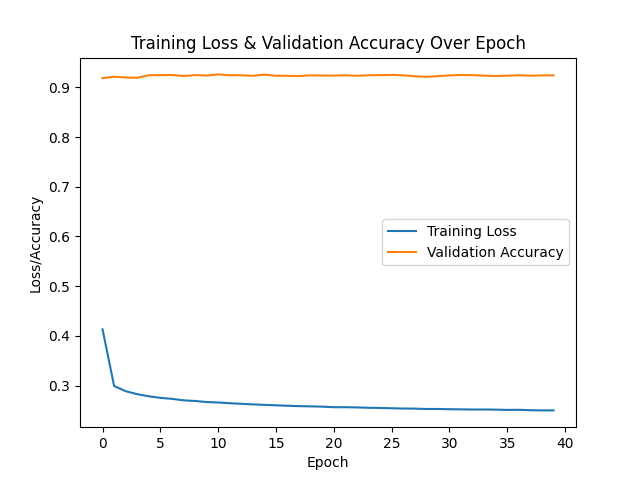
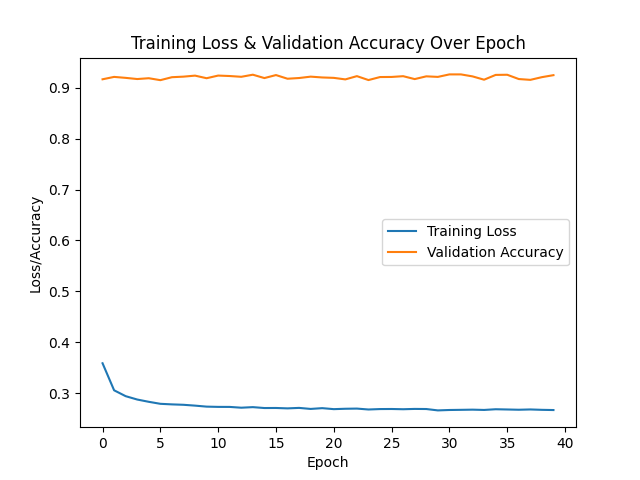
Keras: ex1 1) 2) 3) corrected

diff --git a/lab4/lab4_1_keras.py b/lab4/lab4_1_keras.py
@@ -17,7 +17,7 @@ NUM_CLASSES = 10
 K = 3
 STRIDE = 1
 PADDING = ['valid', 'same']
-NB_FILTERS = 1
+NB_FILTERS = 64
 
 
 if __name__ == '__main__':
@@ -32,9 +32,6 @@ if __name__ == '__main__':
     y_train = keras.utils.to_categorical(y_train, NUM_CLASSES)
     y_test = keras.utils.to_categorical(y_test, NUM_CLASSES)
 
-    # Array of training time over model version.
-    # durations = []
-
     # Define the model.
     model = Sequential()
     model.add(Conv2D(NB_FILTERS, (K, K), STRIDE, PADDING[0], input_shape=x_train.shape[1:]))
@@ -45,7 +42,7 @@ if __name__ == '__main__':
     hist = model.fit(x_train, y_train, batch_size=32, epochs=EPOCHS, validation_data=(x_test, y_test))  # type: ignore
     training_time = time.time() - start_time
     loss, accuracy = model.evaluate(x_test, y_test)
-    # durations += [training_time]
+
 
     # Display the summary.
     print(f"SUMMARY:\n    - Loss: {loss:.4f}\n    - Accuracy: {accuracy:.4f}\n    - Training Time: {training_time:.2f}s")

diff --git a/lab4/README.md b/lab4/README.md
@@ -4,11 +4,13 @@
 
 ### 1.2. First CNN
 
-#### Hyperparameters
+#### Hyperparameters & Results
 
-| Batch Size |  Filters |  Kernel Size  | Stride | Padding |   Loss  | Accuracy |  Time   |
-| :--------: | :------: | :-----------: | :----: | :-----: | :-----: | :------: | :-----: |
-|     32     |    64    |    (3, 3)     |   1    | 'valid' |  0.2746 |  92.41%  | 563.05s |
+| Batch Size |  Filters |  Kernel Size  | Stride | Padding |   Loss  | Accuracy |   Time   |
+| :--------: | :------: | :-----------: | :----: | :-----: | :-----: | :------: | :------: |
+|     32     |    64    |    (3, 3)     |   1    | 'valid' |  0.3152 |  92.43%  | 1411.18s |
+
+<!-- temps abérant, à voir sur ton ordi -->
 
 <br>
 
@@ -33,13 +35,13 @@
 
 Here are the configuration and results of the best model we obtained on lab3.3.
 
-|    Model    | Accuracy |  Time   |
-| :---------: | :------: | :-----: |
-| best lab3.3 |  97.82%  | 561.08s |
-| :---------: | :------: | :-----: |
-|  first CNN  |  92.41%% | 563.05s |
+|    Model    | Accuracy |   Time   |
+| :---------: | :------: | :------: |
+| best lab3.3 |  97.82%  |  561.08s |
+|  first CNN  |  92.43%  | 1411.18s |
 
-Both models took about the same amount of time, but the lab3.3 model provides a 5% higher accuracy.
+<!-- temporary time, to update (also update sentence, as adapted) -->
+The CNN model takes two times more time than the lab3.3 best model and provides a 5% lower accuracy. For now, the CNN model doesn't look good. It must be improvable.
 
 <br>
 
